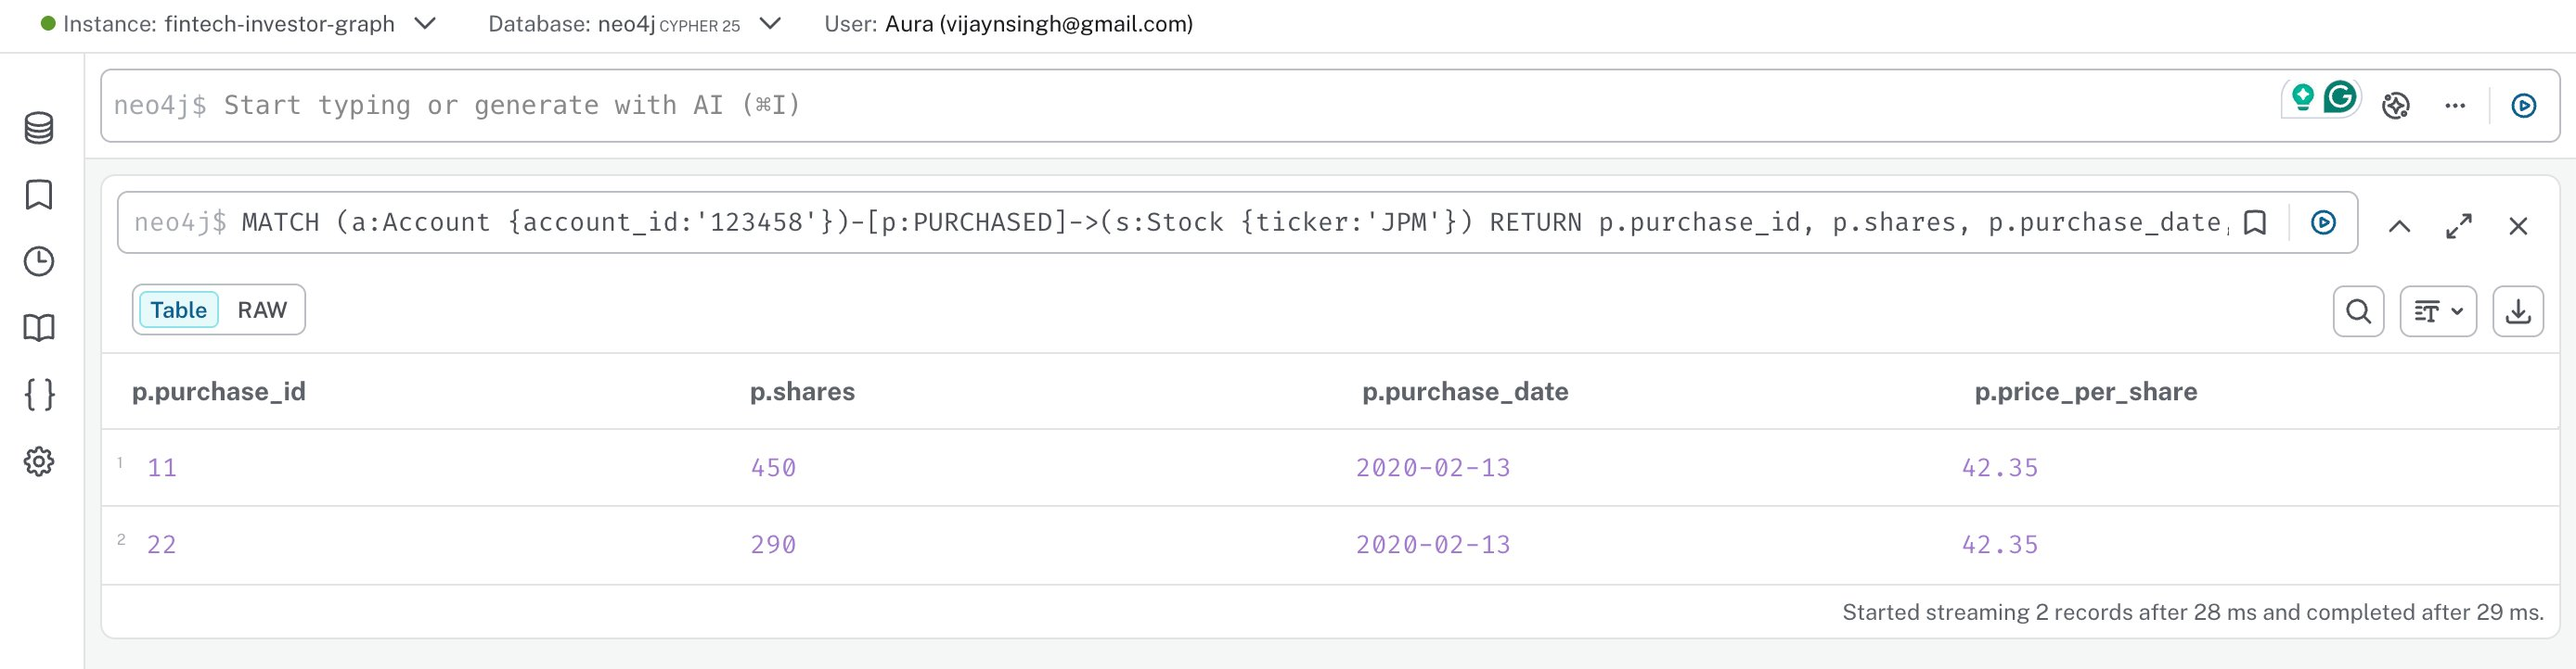
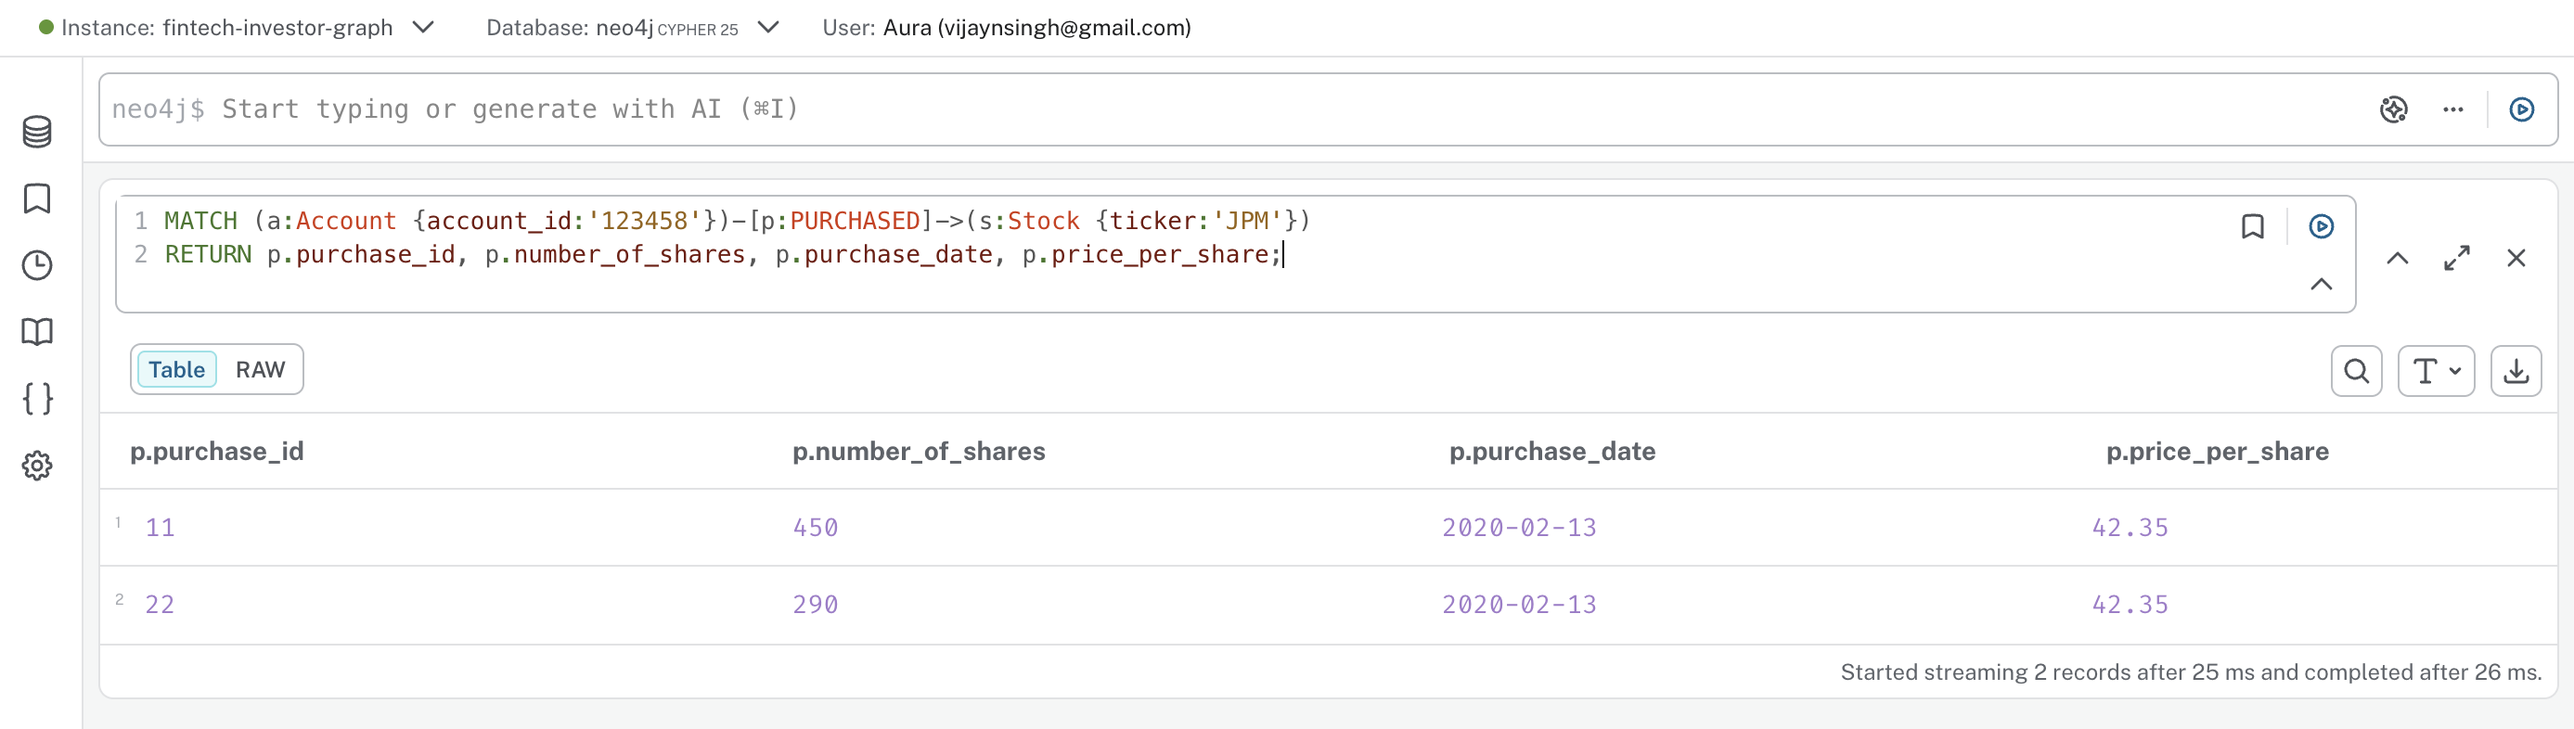
Align property names with source columns

diff --git a/README.md b/README.md
@@ -20,8 +20,12 @@ queries, and a proposed production architecture.
 ```
 (Customer)-[:LIVES_IN]->(City)
 (Customer)-[:OWNS]->(Account {account_type})
-(Account)-[:PURCHASED {purchase_id, shares, purchase_date, price_per_share}]->(Stock)
+(Account)-[:PURCHASED {purchase_id, number_of_shares, purchase_date, price_per_share}]->(Stock)
 ```
+
+Full schema reference — all labels, properties, and types in one place:
+
+![Schema reference](images/graph_model_schema.png)
 
 ### Key modeling decisions
 
